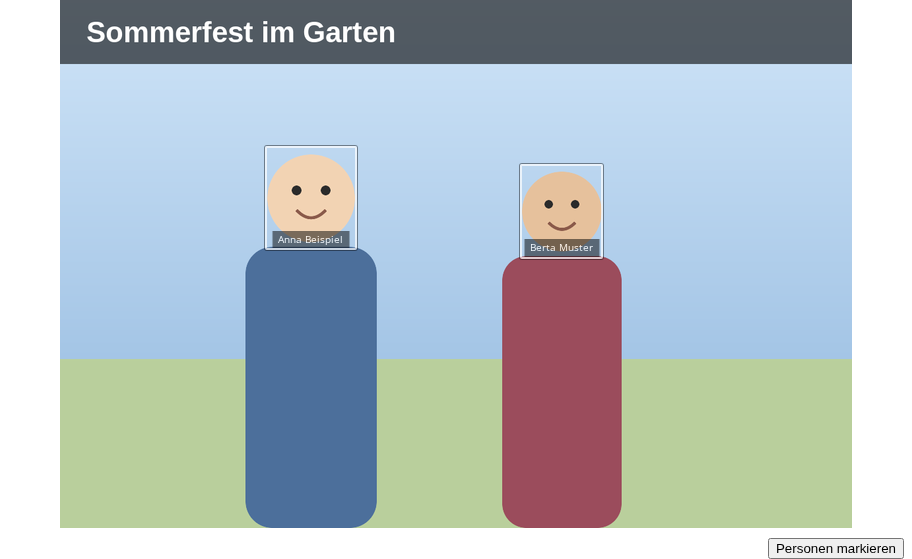
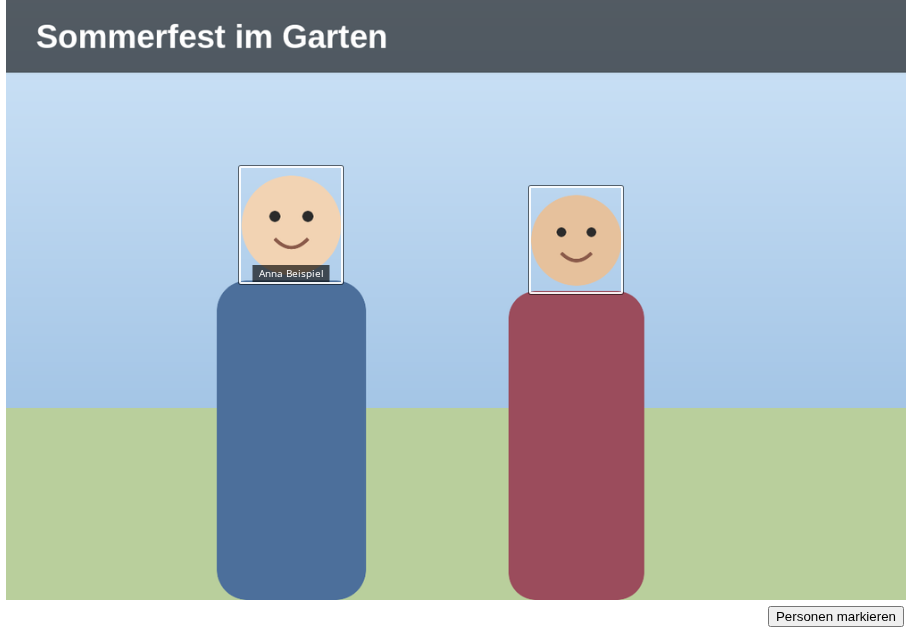
describe hover-only person names in the handbook and re-shoot shot 16
The persons page now says that hovering the photo shows the boxes
without names, that a name shows while the pointer is inside its box,
and that the Personen row lists every name, the only place a touch
device shows them. shoot.js hovers the centre of the leftmost box of
the demo photo, waits for the stage transitions, and refuses the shot
unless exactly one name is visible.

Changed region(s): [[0.0, 0.0, 1.0, 1.0]]

diff --git a/handbuch/tools/shoot.js b/handbuch/tools/shoot.js
@@ -300,6 +300,17 @@ async function waitForOverlayPlacement(page) {
   }, null, { timeout: ELEMENT_TIMEOUT });
 }
 
+/**
+ * Waits until no CSS transition under #persons-stage is running: boxes and
+ * names fade over 0.15s, and a shot taken mid-fade catches them half drawn.
+ */
+async function waitForStageTransitions(page) {
+  await page.waitForFunction(() => document.getAnimations().every(
+    (a) => !(a instanceof CSSTransition) || a.playState !== 'running'
+      || !(a.effect && a.effect.target && a.effect.target.closest('#persons-stage'))
+  ), null, { timeout: ELEMENT_TIMEOUT });
+}
+
 /** Drags a rectangle over one of the drawn faces, in rendered pixels. */
 async function dragOverFace(page, face) {
   const box = await page.locator('#theMainImage').boundingBox();
@@ -521,9 +532,27 @@ const SHOTS = [
       if (found !== demo.persons.length) {
         throw new Error('expected ' + demo.persons.length + ' region boxes, found ' + found);
       }
-      // The boxes are transparent until the photo is hovered.
+      // The boxes show while the photo is hovered, a name only while the
+      // pointer is inside its box: aim at the centre of the leftmost box.
       await page.locator('#persons-stage').scrollIntoViewIfNeeded();
       await page.locator('#theMainImage').hover();
+      const target = await boxes.evaluateAll((els) => els
+        .map((el) => el.getBoundingClientRect())
+        .sort((a, b) => a.left - b.left)
+        .map((r) => ({ x: r.left + r.width / 2, y: r.top + r.height / 2 }))[0]);
+      await page.mouse.move(target.x, target.y, { steps: 5 });
+      await waitForStageTransitions(page);
+      const named = await page.locator('#persons-overlay .person-box-label')
+        .evaluateAll((els) => els.filter((el) => {
+          let opacity = 1;
+          for (let node = el; node && node.id !== 'persons-stage'; node = node.parentElement) {
+            opacity *= Number(window.getComputedStyle(node).opacity);
+          }
+          return opacity > 0.5;
+        }).length);
+      if (named !== 1) {
+        throw new Error('expected exactly one visible name, found ' + named);
+      }
       await shoot(page.locator('#persons-stage'), this.file, demo.image_dir);
     },
   },

diff --git a/handbuch/05-personen.html b/handbuch/05-personen.html
@@ -22,13 +22,20 @@
 
 <p>
   Die Rahmen sind unsichtbar, solange die Maus nicht auf dem Foto steht. Mit dem Mauszeiger
-  über dem Foto erscheinen sie samt Namen. Ein Klick auf einen Namen führt zu allen Fotos
-  dieser Person.
+  über dem Foto erscheinen die Rahmen, noch ohne Namen. Steht der Mauszeiger in einem Rahmen,
+  erscheint unten am Rahmen der Name dieser Person. Ein Klick auf den Namen führt zu allen
+  Fotos dieser Person.
+</p>
+
+<p>
+  Alle markierten Personen eines Fotos stehen außerdem in der Zeile <strong>Personen</strong>
+  in den Angaben neben dem Foto. Auf einem Tablet oder Telefon gibt es keinen Mauszeiger, dort
+  sind die Namen nur in dieser Zeile zu sehen.
 </p>
 
 <figure>
-  <img src="assets/screenshots/16-personen-boxen.png" alt="Ein Foto mit zwei markierten Personen" />
-  <figcaption>Zwei markierte Gesichter. Der Name steht unten am Rahmen.</figcaption>
+  <img src="assets/screenshots/16-personen-boxen.png" alt="Ein Foto mit zwei markierten Gesichtern, der Mauszeiger steht im linken Rahmen und zeigt dessen Namen" />
+  <figcaption>Zwei markierte Gesichter. Nur der Rahmen unter dem Mauszeiger zeigt seinen Namen.</figcaption>
 </figure>
 
 <p>

diff --git a/docs/agents/TESTING.md b/docs/agents/TESTING.md
@@ -877,6 +877,7 @@ than accumulating. Nothing is marked done on prose alone.
 | 2026-09-01 | Phase 6 of the deploy state-guards plan left one manual box, the half `test_readme.py`'s own docstring says it cannot reach: read `tools/deploy/README.md` end to end and judge whether the three new flags (`--audit`, `--adopt-remote-state`, `--allow-version-change`) and two new exit codes (`9`, `10`) read as instructions someone could follow. **Read end to end; it found two defects, both invisible to every existing guard.** (1) A paragraph beginning *"The same asymmetry is what makes prune safe"* had landed at the end of the **core-version** section, where "the same asymmetry" refers to nothing — the antecedent is the manifest-only rule two sections earlier. Moved under *The manifest is the only record of remote state*, where its subject is. (2) The `--audit` worked example printed one orphan name and then `… and 83 more`, which no real run produces: the cap is `MAX_REPORTED_ORPHANS = 20`, so 103 orphans show 20 names. The block is trimmed for length and now says so, naming the cap. | The judgment half is not automatable — the oracle is a person who has not read the code, and a checker that reads prose looking for words is the apparatus-proving-an-apparatus case `.claude/rules/test-design.md` forbids. Both defects are of exactly that kind: every flag and every exit code was already *present* and guarded, so `test_every_flag_the_tool_accepts_is_documented` and `test_every_exit_code_the_tool_can_return_is_documented` were green throughout — presence is mechanical, coherence is not. **One third defect class was mechanizable and is now guarded**: the README quotes `check_version`'s refusal verbatim, a second copy of a production literal with nothing watching it. `test_the_readme_version_refusal_is_the_message_the_tool_produces` reads the two versions out of the documented block and drives `check_version` with them, so a reworded message and a stale example cannot coexist. Watched red twice — once on arrival against its own regex, then against the production message mutated to `the remote says {remote}`, which killed it and nothing else. Suite 403 → 404. |
 | 2026-09-01 | Phase 3 of the handbook-corrections plan named four new buttons in the new album-provenance section (`Herkunft`, `Einstellungen sichern`, `Auf N Fotos anwenden`, `In N Dateien schreiben`) — the same shape of claim that went wrong in the 2026-08-31 pass, where a page named a button by what its icon looks like rather than what it does. Read by hand against `album_provenance.tpl:21-69`: all four are named by what they do, none by icon appearance. | Not automatable — a checker that reads handbook prose and compares it against a template is the apparatus-proving-an-apparatus case `test-design.md` forbids. The falsifiable half of the section is covered instead: `album-provenance-walkthrough.spec.js` proves the sequence the section describes actually behaves that way (empty until applied, then populated). |
 | 2026-10-04 | The handbook's new person-tagging text (`handbuch/05-personen.html`, step 7 and the paragraph under *Abbrechen und löschen*) read by hand against what the live-row change ships: the name appears in Personen as plain text right after a save and tagging mode stays open (`renderPersonRow()` in `editor.js`, called from both write callbacks); deleting the last face hides the row (`personRow.hidden = names.length === 0`); Esc with a draft open only discards it; leaving the mode reloads only after a successful add or delete (`reloadAfterChange()` gates on `changed`); links and the Schlagworte entry arrive with that reload. No screenshot shows the info box (every persons shot is `#persons-stage` or `#persons-picker`), so nothing was re-shot. | Not replaceable: whether prose describes behaviour has no oracle. The behaviour itself is witnessed by `editor.spec.js` (live row, reload on exit, no reload without a change). |
+| 2026-10-05 | The handbook's hover-names text (`handbuch/05-personen.html`, paragraphs under *Vorhandene Markierungen ansehen*, caption and `alt` of `16-personen-boxen.png`) read by hand against what the hover-only change ships: boxes without names while the photo is hovered, a name only while the pointer is inside its box (`.person-box-active` set by the hit-test in `overlay.js`), the name links to the person's photos, and the Personen row as the only place a touch device shows names. `16-personen-boxen.png` re-shot with `shoot.js` aiming at the centre of the leftmost box of the demo photo, and looked at: both boxes drawn, only *Anna Beispiel* named. `shoot.js` itself refuses the shot unless exactly one label is visible after every stage transition has finished. The other 19 shots were reverted as churn (sizes differ from the committed ones because of the modus fit-to-area change, the content does not). | Not replaceable: whether prose describes behaviour has no oracle. The behaviour is witnessed by the persons E2E suite (task 02's hover specs); the one-name precondition of the shot by `shoot.js`. |
 
 ### Open — no oracle, so no test
 

diff --git a/.agents/changes/2026-10-04-persons-hover-names/tasks/03-handbook-persons-page.md b/.agents/changes/2026-10-04-persons-hover-names/tasks/03-handbook-persons-page.md
@@ -19,19 +19,39 @@ appears when the pointer is on its box.
 
 ## Work
 
-* [ ] Rewrite the paragraph under "Vorhandene Markierungen ansehen": boxes on photo hover, the
+* [x] Rewrite the paragraph under "Vorhandene Markierungen ansehen": boxes on photo hover, the
   name when the pointer is on a box, a click on the name opens the person's photos. Mention that
   the **Personen** row lists every name (the only place on a touch device)
-* [ ] Update the caption and `alt` of `16-personen-boxen.png` to match what the shot shows
-* [ ] `shoot.js` shot 16: hover one face of the demo photo (not the photo centre), so exactly one
+* [x] Update the caption and `alt` of `16-personen-boxen.png` to match what the shot shows
+* [x] `shoot.js` shot 16: hover one face of the demo photo (not the photo centre), so exactly one
   name shows
-* [ ] Re-shoot with seed → shoot → `--restore`; commit only `16-personen-boxen.png` and revert
+* [x] Re-shoot with seed → shoot → `--restore`; commit only `16-personen-boxen.png` and revert
   churn in the other shots
-* [ ] Add a dated hand-check ledger entry for the reworded text and the new shot
+* [x] Add a dated hand-check ledger entry for the reworded text and the new shot
 
 ## Verification
 
-* [ ] `ddev exec php handbuch/tools/check.php` passes
-* [ ] `16-personen-boxen.png` shows the boxes and exactly one name
-* [ ] The install is back to its pre-seed state after `--restore`
-* [ ] No other screenshot changed in the commit
+* [x] `ddev exec php handbuch/tools/check.php` passes
+  **Note:** Verified via `ddev exec php handbuch/tools/check.php`: `OK  6 pages, 48 references, 20 screenshots all referenced, 8 admin routes resolve, 38515 bytes free of em-dashes and emoji`
+* [x] `16-personen-boxen.png` shows the boxes and exactly one name
+  **Note:** Verified via looking at the new PNG (both boxes, only "Anna Beispiel" named) and via
+  `shoot.js`, which now throws unless exactly one label has an effective opacity above 0.5 after
+  every CSS transition under `#persons-stage` finished
+* [x] The install is back to its pre-seed state after `--restore`
+  **Note:** Verified via `ddev mysql` counts before seed and after `--restore`, identical:
+  categories 5, images 105, tags 8, image_tag 76, image_category 105, persons 0, person_region 0
+* [x] No other screenshot changed in the commit
+  **Note:** Verified via `git checkout --` of the 11 other re-shot PNGs and `git status` before
+  committing. The churn came from the modus fit-to-area change (decision 0032) altering the photo
+  stage size, not from content changes (17 compared by eye: same content, larger stage)
+
+## Deviations
+
+* `shoot.js` aims at the leftmost box by rendered position rather than a named face, and gained a
+  `waitForStageTransitions()` helper (same predicate as `PicturePage.labelStyle()`) plus a
+  one-visible-name assertion, so a shot showing zero or two names fails instead of being written.
+* The paragraph was split in two: the hover behaviour, then the Personen row (incl. touch devices).
+
+## Manual checks remaining
+
+* [ ] (manual testing required) Whether the reworded German reads naturally
